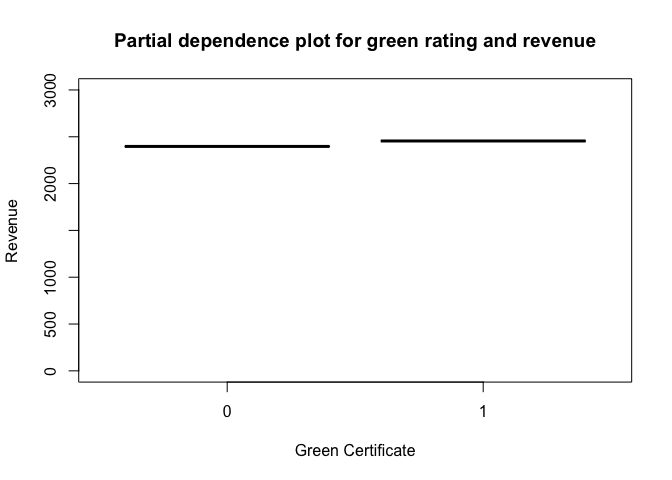
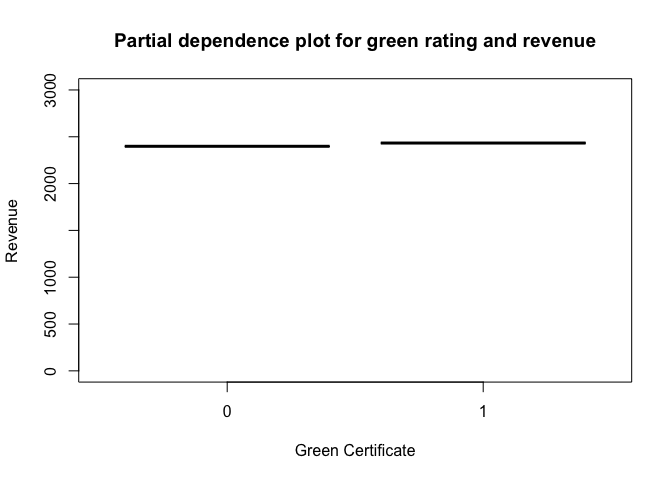
More updates

Changed region(s): [[0.5625, 0.2812, 0.875, 0.3125], [0.1875, 0.2812, 0.4688, 0.3125]]

diff --git a/Exercise 3/Problem-Set-3.md b/Exercise 3/Problem-Set-3.md
@@ -106,39 +106,39 @@ and the larger the increase, the bigger the effect on crime.
 <tbody>
 <tr class="odd">
 <td style="text-align: left;">lm1 (baseline)</td>
-<td style="text-align: right;">27.39341</td>
+<td style="text-align: right;">19.81470</td>
 </tr>
 <tr class="even">
 <td style="text-align: left;">lm2</td>
-<td style="text-align: right;">27.48432</td>
+<td style="text-align: right;">19.85939</td>
 </tr>
 <tr class="odd">
 <td style="text-align: left;">lm3</td>
-<td style="text-align: right;">27.50971</td>
+<td style="text-align: right;">19.84933</td>
 </tr>
 <tr class="even">
 <td style="text-align: left;">dengue_tree1</td>
-<td style="text-align: right;">32.01659</td>
+<td style="text-align: right;">22.76814</td>
 </tr>
 <tr class="odd">
 <td style="text-align: left;">dengue_tree2</td>
-<td style="text-align: right;">32.35450</td>
+<td style="text-align: right;">22.85653</td>
 </tr>
 <tr class="even">
 <td style="text-align: left;">dengue_forest1</td>
-<td style="text-align: right;">25.53912</td>
+<td style="text-align: right;">18.79479</td>
 </tr>
 <tr class="odd">
 <td style="text-align: left;">dengue_boost1</td>
-<td style="text-align: right;">28.05855</td>
+<td style="text-align: right;">22.10252</td>
 </tr>
 <tr class="even">
 <td style="text-align: left;">dengue_boost2</td>
-<td style="text-align: right;">31.68655</td>
+<td style="text-align: right;">22.83235</td>
 </tr>
 <tr class="odd">
 <td style="text-align: left;">dengue_boost3</td>
-<td style="text-align: right;">31.73855</td>
+<td style="text-align: right;">22.88528</td>
 </tr>
 </tbody>
 </table>
@@ -162,15 +162,15 @@ models, one random forest, and three gradient-boosted models.
 <tbody>
 <tr class="odd">
 <td style="text-align: left;">dengue_tree1</td>
-<td style="text-align: right;">26.64949</td>
+<td style="text-align: right;">25.82768</td>
 </tr>
 <tr class="even">
 <td style="text-align: left;">dengue_forest1</td>
-<td style="text-align: right;">23.25155</td>
+<td style="text-align: right;">22.56781</td>
 </tr>
 <tr class="odd">
 <td style="text-align: left;">dengue_boost1</td>
-<td style="text-align: right;">25.62078</td>
+<td style="text-align: right;">25.05192</td>
 </tr>
 </tbody>
 </table>
@@ -322,9 +322,7 @@ are many irrelevant features in the data. To address this, we use
 ensemble methods such as random forests or gradient boosting, which
 combine the predictions of multiple trees to improve performance.
 
-    ## [1] 1145.938
-
-    ## [1] 939.7867
+    ## [1] 1012.857
 
  
 
@@ -333,9 +331,9 @@ variables, and the second includes some features (City\_Market\_Rent ,
 age, size+ class\_a, class\_b, Electricity\_Costs, green\_rating) that
 seem to be effective on the dependent variable.
 
-    ## [1] 921.2606
+    ## [1] 793.5497
 
-    ## [1] 1036.544
+    ## [1] 876.833
 
 ![](Problem-Set-3_files/figure-markdown_strict/3.3-1.png)
 
@@ -343,21 +341,7 @@ seem to be effective on the dependent variable.
 
 And finally, we used another ensemble method, Boosted trees.
 
-    ## Distribution not specified, assuming gaussian ...
-
-    ## [1] 1106.191
-
-![](Problem-Set-3_files/figure-markdown_strict/3.4-1.png)
-
-    ## [1] 103
-    ## attr(,"smoother")
-    ## Call:
-    ## loess(formula = object$oobag.improve ~ x, enp.target = min(max(4, 
-    ##     length(x)/10), 50))
-    ## 
-    ## Number of Observations: 500 
-    ## Equivalent Number of Parameters: 39.85 
-    ## Residual Standard Error: 949.5
+    ## [1] 986.8264
 
  
 
@@ -382,8 +366,8 @@ information about the status of a green certificate, the error of the
 predictions changes less than the other features.
 
     ##   green_rating     yhat
-    ## 1            0 2396.901
-    ## 2            1 2455.084
+    ## 1            0 2398.287
+    ## 2            1 2433.065
 
 ![](Problem-Set-3_files/figure-markdown_strict/3.5-1.png)
 
